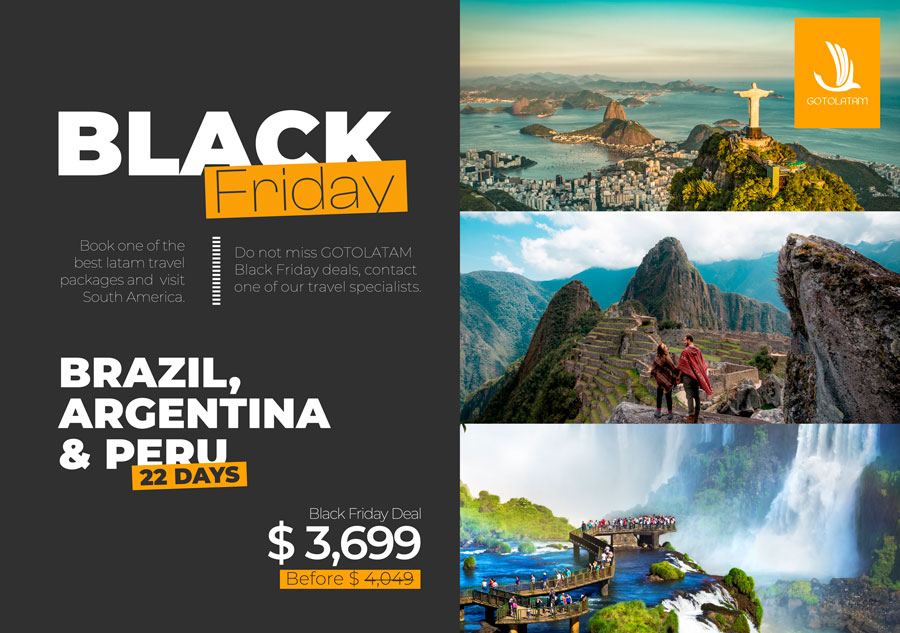
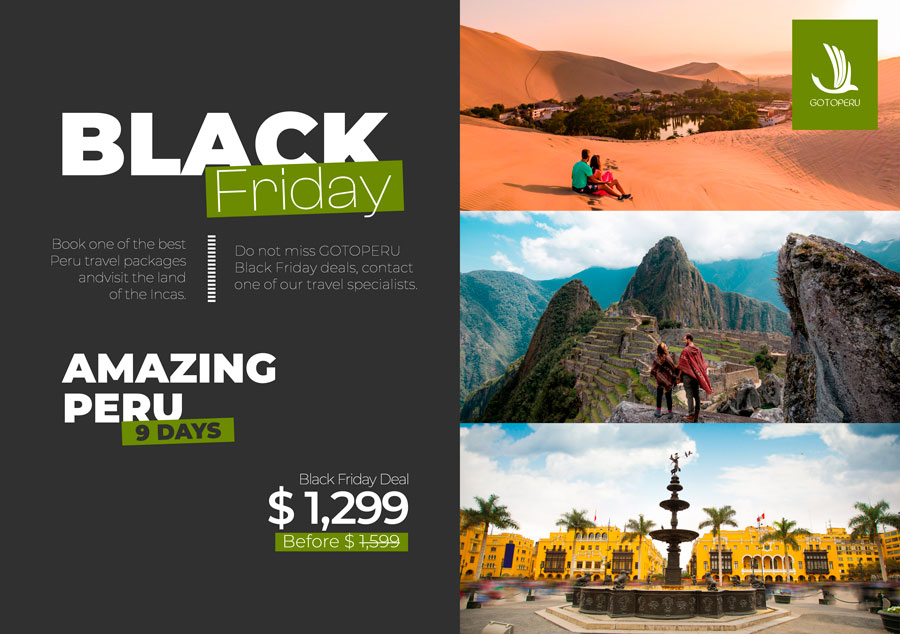
Campaña black friday

diff --git a/resources/views/page/home.blade.php b/resources/views/page/home.blade.php
@@ -1015,7 +1015,7 @@
                             </svg>
                         </button>
 
-                    <a href="https://gotolatam.com/peru-travel-packages/Brazil-Argentina-Peru-22-days"><img src="{{('images/banners/campaigns/black.jpg')}}" alt=""></a>
+                    <a href="https://gotoperu.com/peru-travel-packages/Amazing-Peru"><img src="{{('images/banners/campaigns/black.jpg')}}" alt=""></a>
                 </div>
             </div>
         </div>
